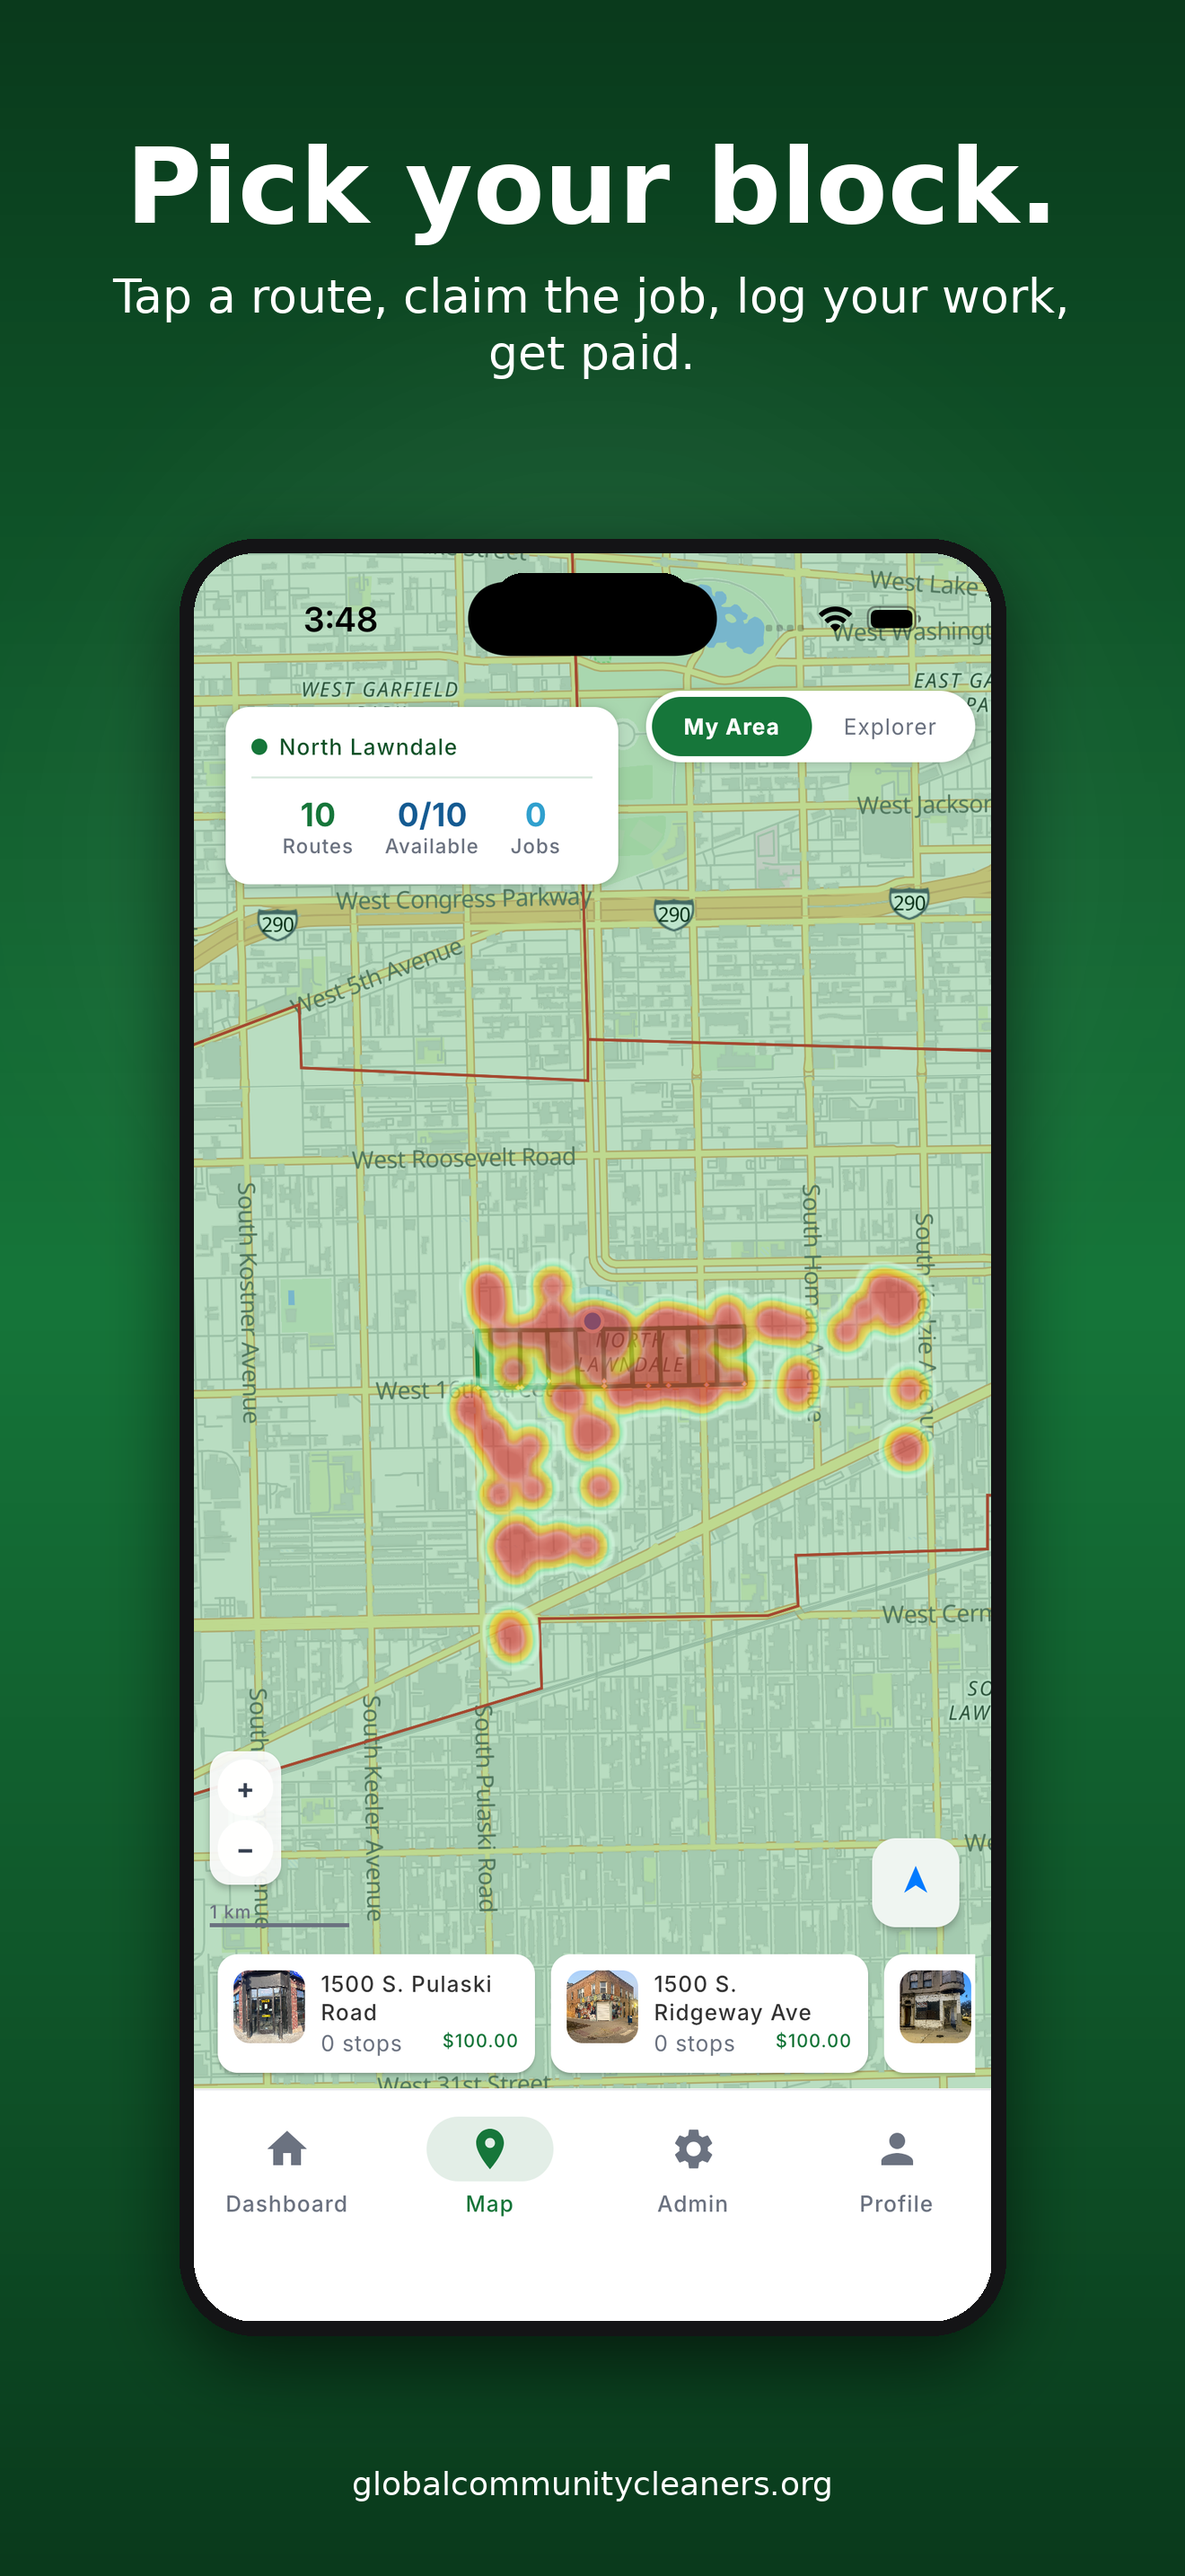
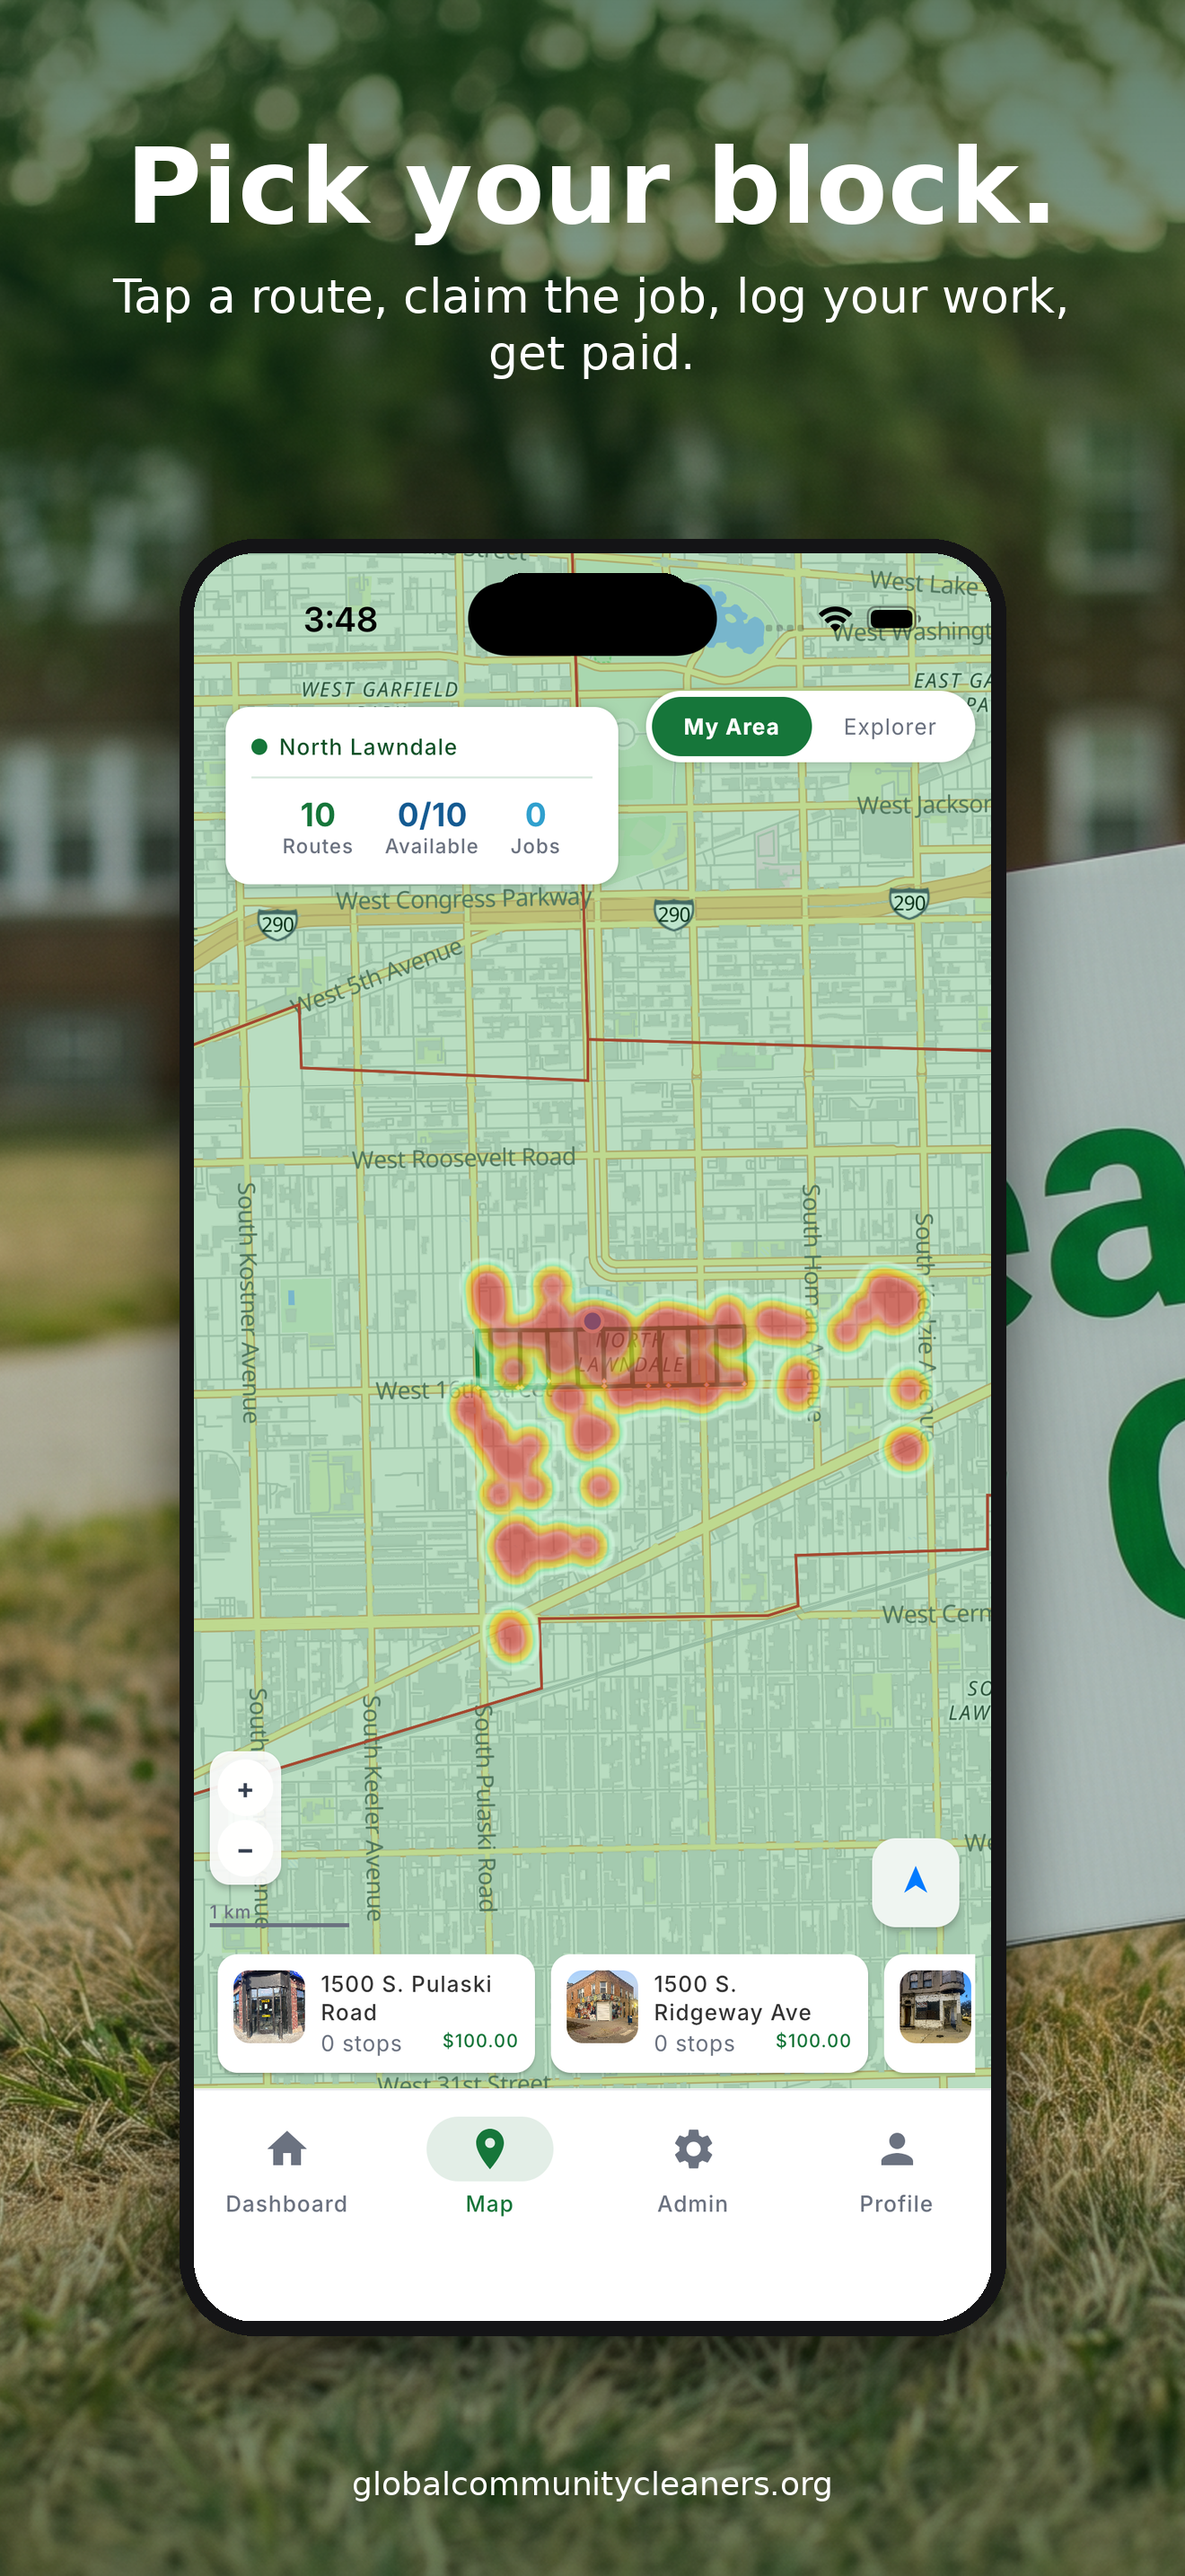
feat(appstore): photographic backgrounds + upgraded captions for v1.0.5 batch
Top-tier App Store screenshots use lifestyle photography behind the
device frame, not gradients (Headspace, Strava, Cash App pattern).
Updated make-appstore-screenshot.py to support a `hero_photo` per
config — the photo cover-fits the canvas and gets a brand-tinted
two-stop darken overlay (heavy at top, light in middle, medium at
bottom) so caption + footer remain crisp regardless of photo content.

5-frame mapping uses the existing nanobanana-generated upsell scenes
(2528x1696 editorial documentary photos already in site/public/images/upsells/):
- 01-heatmap   "See every block."          worker vest back
- 02-profile   "Earn $100 per block."      equipment cart on sidewalk
- 03-routes    "Pick your block."          yard sign on residential lawn
- 04-onboarding "100% to your neighbor."   phone with social-share post
- 05-launch    "Built for North Lawndale." community event tent

Also:
- Bump Fastfile :submit lane 1.0.4/80 -> 1.0.5/81 to match new release
- New :screenshots lane that uploads metadata + screenshots only
- Drop dead api_key_path "./fastlane/api_key.json" from Deliverfile —
  was overriding inline ASC API key auth and failing because the JSON
  file doesn't exist; lanes now pass api_key: directly.

diff --git a/scripts/make-appstore-screenshot.py b/scripts/make-appstore-screenshot.py
@@ -82,12 +82,59 @@ def load_font(candidates: list[str], size: int) -> ImageFont.FreeTypeFont:
     return ImageFont.load_default()
 
 
-def make_background() -> Image.Image:
-    """Vertical brand-green gradient with a soft radial highlight upper-third."""
+def make_background(hero_photo: Path | None = None) -> Image.Image:
+    """
+    If `hero_photo` is provided, use it as a full-bleed photographic
+    background with a brand-tinted darken overlay so the caption + device
+    read clearly. Otherwise fall back to the brand-green gradient.
+
+    The pattern matches what top-selling App Store apps (Headspace,
+    Strava, Cash App) do: a real photo grounds the screenshot in the
+    product's world, then a darken layer keeps the typography readable.
+    """
+    if hero_photo and hero_photo.exists():
+        photo = Image.open(hero_photo).convert("RGB")
+        # Cover-fit into 1320x2868: scale to whichever dim is smaller
+        # of (CANVAS_W/photo_W, CANVAS_H/photo_H) — actually we want max
+        # so the photo covers without letterbox.
+        ph_w, ph_h = photo.size
+        scale = max(CANVAS_W / ph_w, CANVAS_H / ph_h)
+        new_w = int(ph_w * scale)
+        new_h = int(ph_h * scale)
+        photo = photo.resize((new_w, new_h), Image.LANCZOS)
+        left = (new_w - CANVAS_W) // 2
+        top = (new_h - CANVAS_H) // 2
+        bg = photo.crop((left, top, left + CANVAS_W, top + CANVAS_H)).convert("RGBA")
+
+        # Two-stop overlay so caption (top) and footer (bottom) stay legible:
+        #   top 35% — dark at 65% alpha, fades to 25%
+        #   middle — even mid-tone darken at 25%
+        #   bottom 18% — dark at 50% alpha for footer
+        overlay = Image.new("RGBA", (CANVAS_W, CANVAS_H), (0, 0, 0, 0))
+        op = overlay.load()
+        for y in range(CANVAS_H):
+            t = y / (CANVAS_H - 1)
+            if t < 0.35:
+                # Top band: 65% → 25%
+                k = t / 0.35
+                a = int(165 - (165 - 64) * k)
+            elif t < 0.82:
+                # Middle: gentle darken
+                a = 64
+            else:
+                # Bottom 18%: ramp 25% → 50% for footer legibility
+                k = (t - 0.82) / 0.18
+                a = int(64 + (128 - 64) * k)
+            row = (BRAND_GREEN_900[0], BRAND_GREEN_900[1], BRAND_GREEN_900[2], a)
+            for x in range(CANVAS_W):
+                op[x, y] = row
+
+        bg = Image.alpha_composite(bg, overlay).convert("RGB")
+        return bg
+
+    # ── Fallback: brand-green gradient (used when no hero photo) ──
     bg = Image.new("RGB", (CANVAS_W, CANVAS_H), BRAND_GREEN_700)
     pixels = bg.load()
-
-    # Vertical gradient: GREEN_900 → GREEN_500 → GREEN_900
     for y in range(CANVAS_H):
         t = y / (CANVAS_H - 1)
         if t < 0.5:
@@ -102,20 +149,6 @@ def make_background() -> Image.Image:
             b = BRAND_GREEN_500[2] + (BRAND_GREEN_900[2] - BRAND_GREEN_500[2]) * k
         for x in range(CANVAS_W):
             pixels[x, y] = (int(r), int(g), int(b))
-
-    # Soft radial highlight in upper third — subtle "spotlight on hero"
-    overlay = Image.new("RGBA", (CANVAS_W, CANVAS_H), (0, 0, 0, 0))
-    od = ImageDraw.Draw(overlay)
-    cx, cy = CANVAS_W // 2, CANVAS_H // 3
-    radius = 720
-    for r in range(radius, 0, -8):
-        alpha = int(28 * (1 - r / radius))
-        od.ellipse(
-            [cx - r, cy - r, cx + r, cy + r],
-            fill=(255, 255, 255, alpha),
-        )
-    overlay = overlay.filter(ImageFilter.GaussianBlur(60))
-    bg = Image.alpha_composite(bg.convert("RGBA"), overlay).convert("RGB")
     return bg
 
 
@@ -226,8 +259,9 @@ def compose(
     headline: str,
     subcopy: str,
     out_path: Path,
+    hero_photo: Path | None = None,
 ) -> None:
-    canvas = make_background()
+    canvas = make_background(hero_photo)
     canvas = canvas.convert("RGBA")
     draw = ImageDraw.Draw(canvas)
 
@@ -269,36 +303,48 @@ REPO = SCRIPT_DIR.parent
 RAW_DIR = REPO / "screenshots" / "raw"
 OUT_DIR = REPO / "screenshots" / "appstore-framed"
 
+SITE_HERO_DIR = REPO / "site" / "public" / "images" / "upsells"
+
 CONFIGS = [
     {
         "src": "12-tap-map.png",
         "out": "01-heatmap.png",
         "headline": "See every block.",
         "subcopy": "Live heatmap of cleanings scheduled, in progress, and done.",
+        # Worker behind sweeping in vest — the human face of the program
+        "hero": SITE_HERO_DIR / "worker-branding-base.jpg",
     },
     {
         "src": "10-map-fixed.png",
         "out": "02-profile.png",
-        "headline": "Track your earnings.",
-        "subcopy": "Same-day Stripe payout. Streaks. Badges. Real money for real work.",
+        "headline": "Earn $100 per block.",
+        "subcopy": "Same-day Stripe payout. Streaks, badges, real money for real work.",
+        # Equipment cart on the sidewalk — work in progress
+        "hero": SITE_HERO_DIR / "equipment-branding-base.jpg",
     },
     {
         "src": "12-tap-map.png",
         "out": "03-routes.png",
         "headline": "Pick your block.",
         "subcopy": "Tap a route, claim the job, log your work, get paid.",
+        # Yard sign on residential block — visible community marker
+        "hero": SITE_HERO_DIR / "street-advertising-base.jpg",
     },
     {
         "src": "04-further.png",
         "out": "04-onboarding.png",
-        "headline": "$100 per block.",
-        "subcopy": "100% pays a neighbor to clean their own street.",
+        "headline": "100% to your neighbor.",
+        "subcopy": "Every $100 sponsored pays one resident to clean one block — line-itemized.",
+        # Phone showing the social-share post — "your work, public"
+        "hero": SITE_HERO_DIR / "digital-presence-base.jpg",
     },
     {
         "src": "12-tap-map.png",
         "out": "05-launch.png",
         "headline": "Built for North Lawndale.",
         "subcopy": "Expanding neighborhood by neighborhood — bring it to yours.",
+        # Community event tent — community celebration
+        "hero": SITE_HERO_DIR / "events-base.jpg",
     },
 ]
 
@@ -320,7 +366,11 @@ def main() -> int:
             if not src.exists():
                 print(f"  ! skipping {cfg['out']} — source missing: {src}")
                 continue
-            compose(src, cfg["headline"], cfg["subcopy"], OUT_DIR / cfg["out"])
+            hero = cfg.get("hero")
+            if hero and not Path(hero).exists():
+                print(f"  ! hero photo missing for {cfg['out']}, falling back to gradient: {hero}")
+                hero = None
+            compose(src, cfg["headline"], cfg["subcopy"], OUT_DIR / cfg["out"], hero_photo=hero)
         return 0
 
     if not args.src or not args.headline or not args.out:
